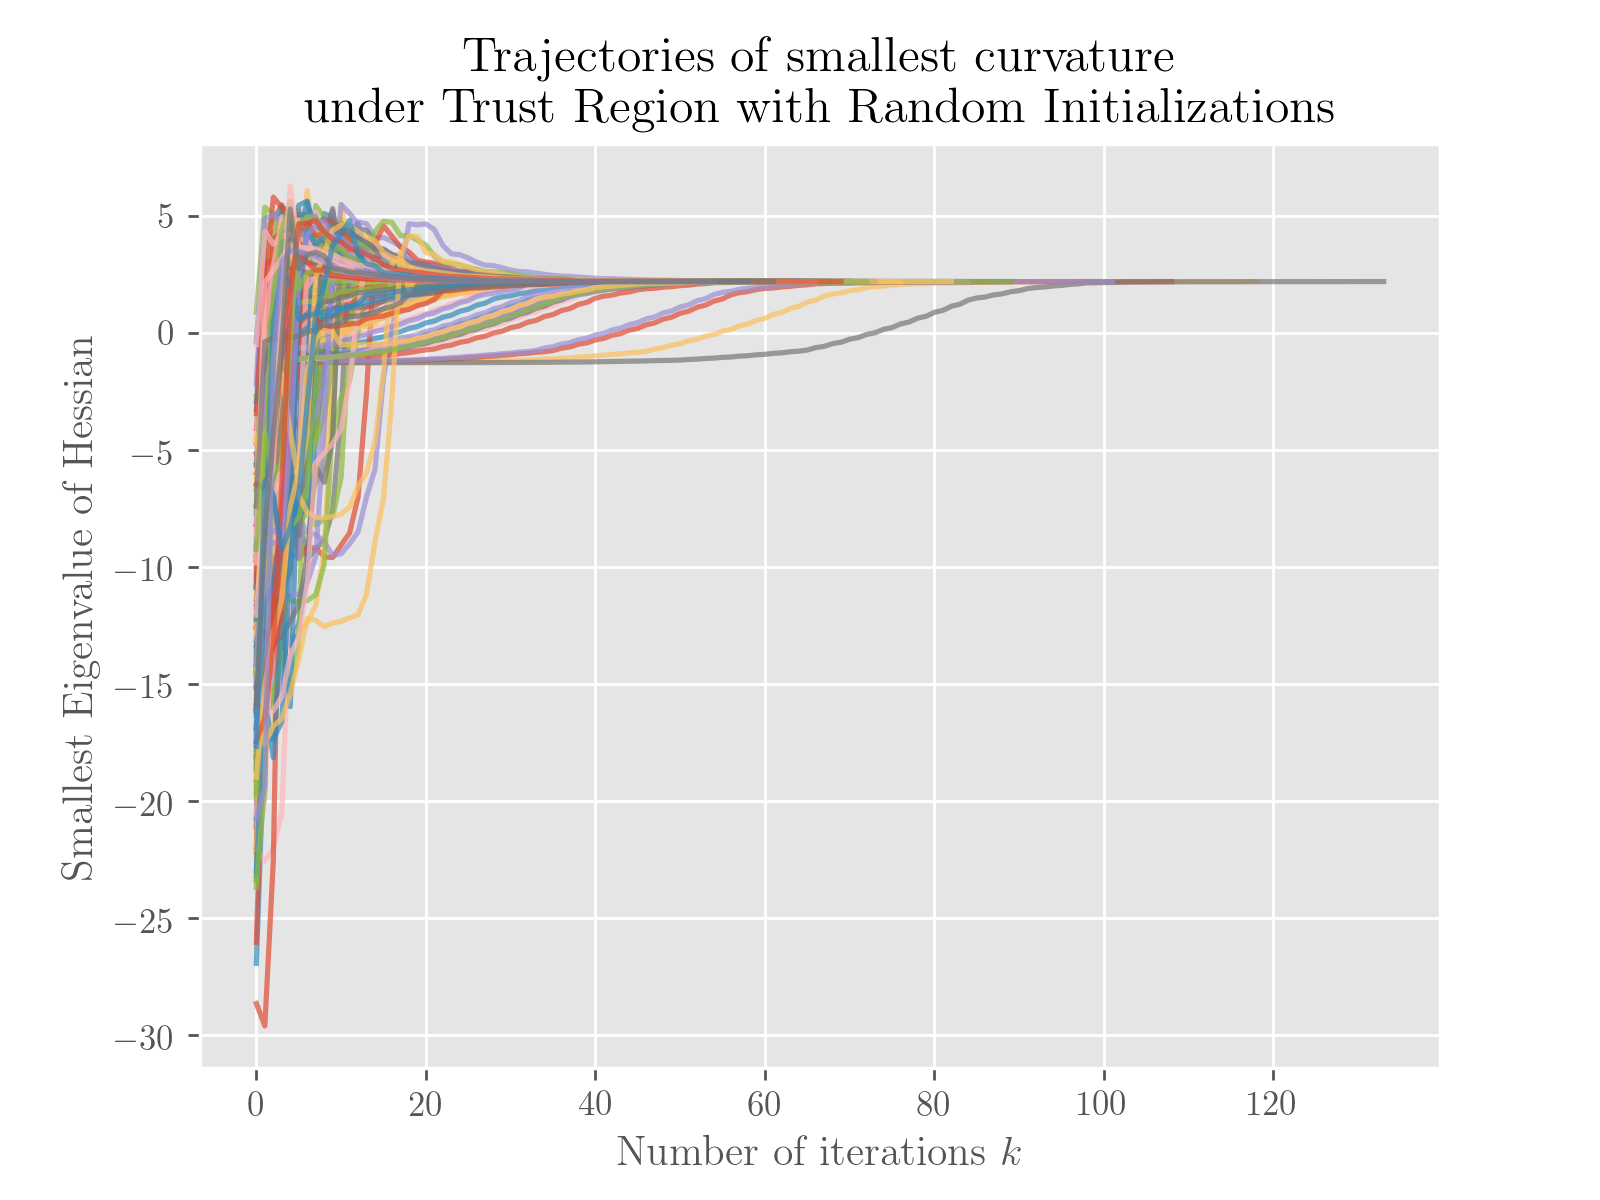
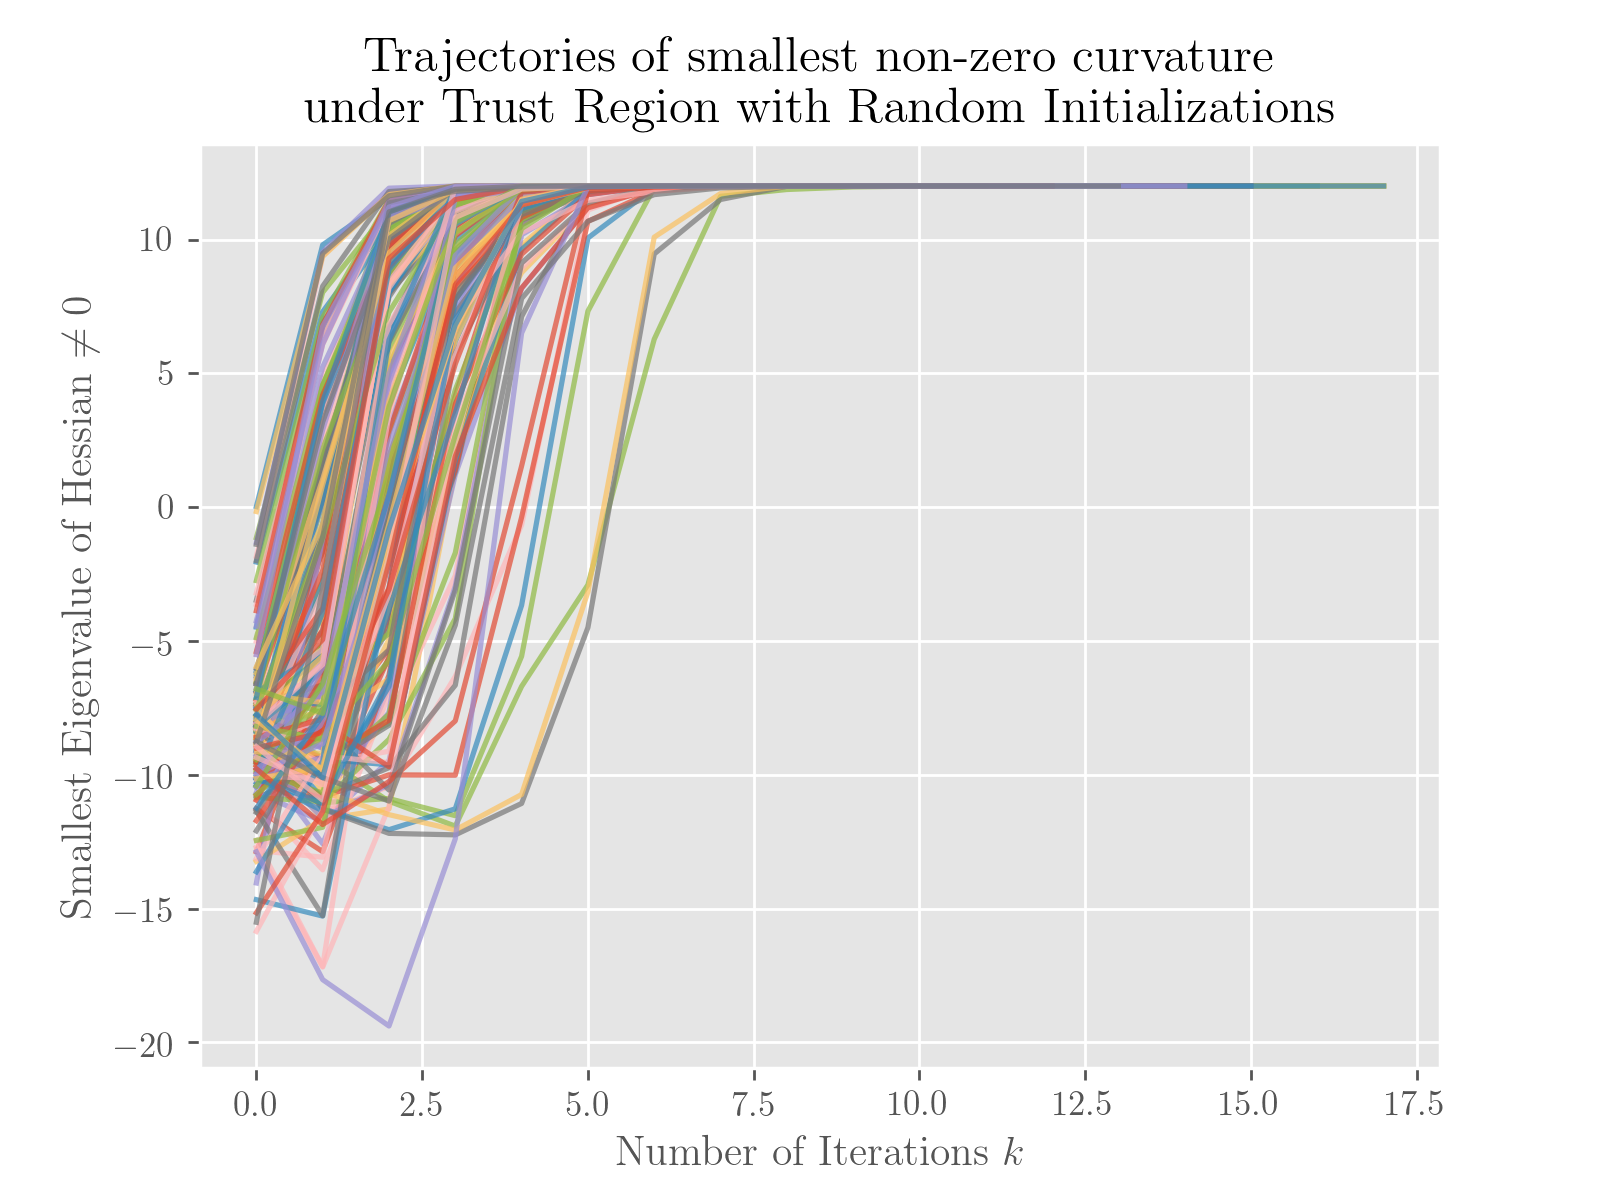
add reformatted optimization for finding stationary_points.

diff --git a/stationary_points.py b/stationary_points.py
@@ -1,0 +1,68 @@
+import numpy as np
+import basin_of_attraction as basin
+import trigonometric as trig
+import scipy.optimize as opt
+import aux
+
+
+def minimize_gradient(A, z):
+    """
+    Returns the local minimizer found by the algorithm and the corresponding
+    matrix X.
+
+    Prints the value of local min and the corresponding local minimizer found
+    by the gradient descent algorithm on the objective function of ||grad||_2.
+    """
+
+    dim, _ = A.shape
+    init = np.random.uniform(-2, 2, size=dim)
+    result = opt.minimize(
+        fun=lambda theta: gradient_norm_func(A, theta), x0=init)
+    theta = result.x
+    opt_val = result.fun
+    T = np.empty((dim, dim))
+    for i in range(dim):
+        T[i, :] = theta[i]
+        T[i, :] = T[i, :] - theta
+    X = np.cos(T)
+    print("The local minimum is: {}".format(opt_val))
+    print("The corresponding minimizer is: \n{}".format(X))
+
+    return theta, X
+
+
+def gradient_norm_func(A, theta):
+    """
+    Returns the 2 norm of the gradient vector (more precisely,
+    1/2 of the gradient vector).
+    """
+
+    return np.linalg.norm(trig.trig_grad(A, theta))
+
+
+def evaluate_curvature(A, X):
+    """
+    Returns the Hessian given the observation A and a point X on the manifold.
+    """
+
+    dim, _ = A.shape
+    one = np.ones(dim).reshape((-1, 1))
+    hess = A * X - np.diag((A * X).dot(one))
+    return hess
+
+
+def smallest_nonzero_curv(hess):
+    """Returns the smallest nonzero curvature for the given Hessian."""
+
+    curv_arr = aux.sorted_eigenvalues(hess).ravel()
+    curv = curv_arr[0]
+    if curv > - 10 ** (-6):
+        curv = curv_arr[1]
+    return curv
+
+
+if __name__ == '__main__':
+    A, z = basin.get_observation(10, 1, 'positive-rows')
+    theta, X = minimize_gradient(A, z)
+    hessian = evaluate_curvature(A, X)
+    print("The smallest curvature is : {}".format(smallest_nonzero_curv(hessian)))

diff --git a/basin_of_attraction.py b/basin_of_attraction.py
@@ -130,9 +130,10 @@ def draw_curvature_landscape(curvature_arr_array):
     plt.rc('font', family='serif')
     for arr in curvature_arr_array:
         plt.plot(range(arr.shape[0]), arr, alpha=.7)
-    plt.title(r'Trajectories of smallest curvature' '\n' r'under Trust Region with Random Initializations')
-    plt.xlabel(r'Number of iterations $k$')
-    plt.ylabel(r'Smallest Eigenvalue of Hessian')
+    plt.title(r'Trajectories of smallest non-zero curvature'
+             '\n' r'under Trust Region with Random Initializations')
+    plt.xlabel(r'Number of Iterations $k$')
+    plt.ylabel(r'Smallest Eigenvalue of Hessian $\neq 0$')
     plt.savefig('curvature trajectories.png', dpi=250)
     plt.close('all')
 
@@ -227,7 +228,7 @@ def get_nearby_pt(ground_truth, distance):
 
 
 if __name__ == '__main__':
-    A, z = get_observation(10, 1, 'sync')
+    A, z = get_observation(10, 1, 'positive-rows')
 
     # # Draw landscape near the ground truth
     # info = landscape(A, z, max_radius=500)
